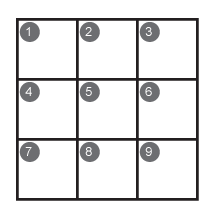
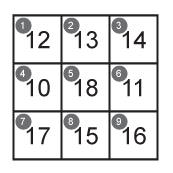
a little more work on magic squares

diff --git a/cur/programming/3-lists/4-magic-square/finding-triples.html b/cur/programming/3-lists/4-magic-square/finding-triples.html
@@ -20,7 +20,8 @@
    <img border="0" class="imageRight" src="/bjc-r/img/3-lists/magic_square_positions.png" alt="picture that labels positions" title="picture that labels positions" />
    <ol>
    		<li>How many triples do you have to check to see if a list is a magic square?</li>
-        <li>Make a list of lists, called <code>triple positions</code> that keeps track of the <em>positions</em> of the triples. Here's a start. The first list, (1, 4, 7) is identifying the <em>left column</em> in a 3-by-3 grid.<br><img border="0" src="/bjc-r/img/3-lists/magic_start_triples.png" alt="list that gives first triple (1,4,7)" title="list that gives first triple (1,4,7)" /></li>
+        <li>Make a list of lists, called <code>triple positions</code> that keeps track of the <em>positions</em> of the triples. Here's a start. The first item, the list (1, 4, 7) is identifying the <em>left column</em> in a 3-by-3 grid.<br><img border="0" src="/bjc-r/img/3-lists/magic_start_triples.png" alt="list that gives first triple (1,4,7)" title="list that gives first triple (1,4,7)" /></li>
+        <li><div class="sidenote">For the magic square shown above, <code>triples in square ()</code> would return a list of lists whose first item is the list (12, 10, 17).</div><code>Triple positions</code> gives a list of the positions of the triples. Now make a red reporter block, called <code>triples in square ()</code> that returns the <em>numbers</em> from the potential magic square that are in those positions. <strong>You already made</strong> an important piece of this code, <code>lookup items () from ()</code> in Lab 2. Look <a href="http://bjc.edc.org/bjc-r/cur/programming/3-lists/2-list-operations/map.html?topic=nyc_bjc%2F3-lists.topic&course=bjc4nyc_2015-2016.html&novideo&noreading&noassignment">back at the problem</a> for instructions on importing the block to use for this project.<br>Here's the beginning of <code>triples in square ()</code>.<br><img border="0" src="/bjc-r/img/3-lists/magic_triples_square.png" alt="red reporter: triples in square (square)" title="red reporter: triples in square (square)" /></li>
         
     </ol>
     </div>
